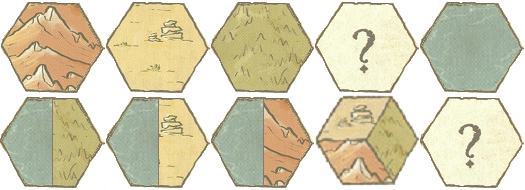
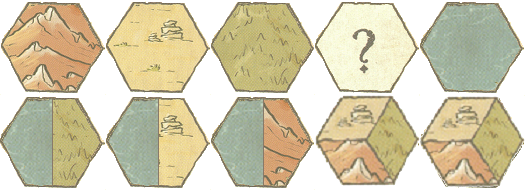
GeM: more constraints

Changed region(s): [[0.7924, 0.5, 1.0, 1.0]]

diff --git a/GuildeMarchande/main.js b/GuildeMarchande/main.js
@@ -35,6 +35,7 @@ const CARD = {
 	JOKER: "joker",
 	CAPITAL: "capital",
 	TOWER: "tower",
+	TYPE: "type",
 	CRISTAL: "cristal",
 	VILLAGE: "village",
 };
@@ -48,6 +49,7 @@ const CONSTRAINT = {
 	ALIGNED: "aligned",
 	CENTERED: "centered",
 	INREGION: "in_same_region",
+	ALIGNEDSAMETYPE: "aligned-same_type",
 };
 
 let overCell = null;
@@ -256,10 +258,10 @@ function initMap(mapName) {
 	ageCards.unshift(9);
 
 	specialityArray = [
-		1, 2, 3, 4, 5, 6, 7, 8, 13, 14, 15, 16, 17, 18, 19, 20, 21, 22, 23, 24, 25,
-		26, 27,
+		1, 2, 3, 4, 5, 6, 7, 8, 10, 11, 13, 14, 15, 16, 17, 18, 19, 20, 21, 22, 23,
+		24, 25, 26, 27,
 	];
-	// [9, 10, 11, 12, 28];
+	// [9, 12, 28];
 	randomizer.shuffleArray(specialityArray);
 
 	tresorArray = [
@@ -395,6 +397,18 @@ function checkCubes(curCubes) {
 		} else {
 			return "Des cubes ne sont pas bien alignés";
 		}
+	} else if (constraint === CONSTRAINT.ALIGNEDSAMETYPE) {
+		if (
+			!checkAlignedCubes(curCubes.filter((cube) => cube.type !== CARD.VILLAGE))
+		) {
+			return "Des cubes ne sont pas bien alignés";
+		} else if (
+			!checkSameTypeCubes(curCubes.filter((cube) => cube.type !== CARD.VILLAGE))
+		) {
+			return "Des cubes ne sont pas du même type";
+		} else {
+			return "ok";
+		}
 	} else if (constraint === CONSTRAINT.CENTERED) {
 		if (
 			checkCenteredCubes(curCubes.filter((cube) => cube.type !== CARD.VILLAGE))
@@ -484,6 +498,18 @@ function checkConsecutiveCubes(consecutiveCubes) {
 		}
 	}
 	return true;
+}
+
+function checkSameTypeCubes(sameTypeCubes) {
+	const bcell = board[sameTypeCubes[0].x][sameTypeCubes[0].y];
+	if (![CARD.SAND, CARD.GRASSLAND, CARD.MOUNTAIN].includes(bcell.type)) {
+		return false;
+	}
+	const curType = bcell.type;
+	return sameTypeCubes.every((cube) => {
+		const bcell = board[cube.x][cube.y];
+		return bcell.type === curType;
+	});
 }
 
 function checkAlignedCubes(alignedCubes) {
@@ -1060,6 +1086,9 @@ function undoCube(cubeIndex) {
 
 function checkType(cell, types, withTowerOrCristal = false) {
 	if (types[0] === CARD.JOKER) {
+		return true;
+	}
+	if (types[0] === CARD.TYPE) {
 		return true;
 	}
 	if (
@@ -1956,6 +1985,7 @@ function drawPlayableCase(cube, index) {
 		`${CARD.SEA}|${CARD.GRASSLAND}`,
 		`${CARD.SEA}|${CARD.SAND}`,
 		`${CARD.SEA}|${CARD.MOUNTAIN}`,
+		CARD.TYPE,
 	];
 	const caseIndex = caseIndices.findIndex((cur) => cur === cube.type);
 	spritesheet.drawScaledSprite(
@@ -2049,9 +2079,11 @@ function drawGame() {
 		strokeWeight(2);
 		fill(250, 250, 230);
 		rect(260, 13, 920 - 260, 110, 5);
+		let maxCase = 6;
 		cubes.forEach((cube) => {
-			if (cube.x === 0) {
+			if (cube.x === 0 && maxCase > 0) {
 				drawPlayableCase(cube, index++);
+				maxCase--;
 			}
 		});
 	}
@@ -2577,6 +2609,14 @@ function prepareCube2Play(specialityCardIndex) {
 		addCube2Play(CARD.SEA, 1);
 		addCube2Play(CARD.JOKER, 3);
 	}
+	if (specialityCardIndex === 10) {
+		setConstraint(CONSTRAINT.ALIGNED);
+		addCube2Play(CARD.SEA, 20);
+	}
+	if (specialityCardIndex === 11) {
+		setConstraint(CONSTRAINT.ALIGNEDSAMETYPE);
+		addCube2Play(CARD.TYPE, 20);
+	}
 	if (specialityCardIndex === 13) {
 		setConstraint(CONSTRAINT.CENTERED);
 		addCube2Play(CARD.MOUNTAIN, 1);
@@ -2617,7 +2657,7 @@ function prepareCube2Play(specialityCardIndex) {
 	}
 	if (specialityCardIndex === 22) {
 		setConstraint(CONSTRAINT.INREGION);
-		addCube2Play(CARD.JOKER, 4);
+		addCube2Play(CARD.TYPE, 4);
 	}
 	if (specialityCardIndex === 23) {
 		setConstraint(CONSTRAINT.CENTERED);
